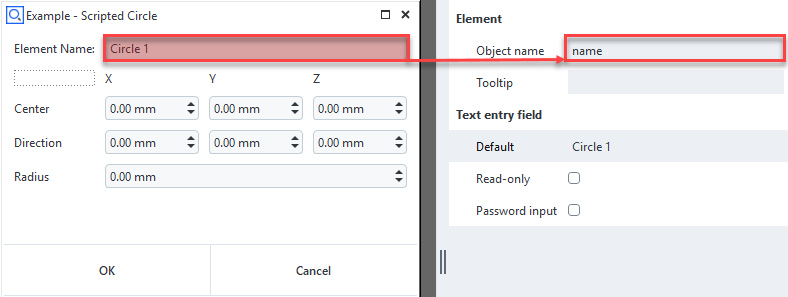
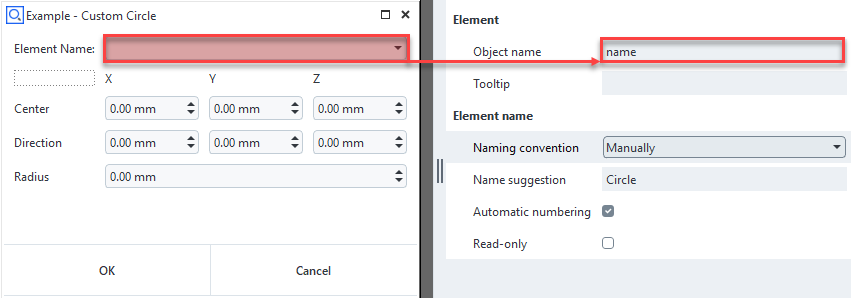
Deploy documentation of '20251201-feat-scripted-elements' to GitHub Pages

diff --git a/20251201-feat-scripted-elements/genindex.html b/20251201-feat-scripted-elements/genindex.html
@@ -244,7 +244,7 @@
   <div class="footer">
     <a href="https://www.gom.com/en/imprint" target="_blank" rel="noopener noreferrer">Imprint</a>
   </div>
-  <jinja2.runtime.BlockReference object at 0x7f224d1e1550>
+  <jinja2.runtime.BlockReference object at 0x7f5c181e0980>
 
 
 </footer>

diff --git a/20251201-feat-scripted-elements/howtos/adding_workspaces_to_apps/adding_workspaces_to_apps.html b/20251201-feat-scripted-elements/howtos/adding_workspaces_to_apps/adding_workspaces_to_apps.html
@@ -440,7 +440,7 @@
   <div class="footer">
     <a href="https://www.gom.com/en/imprint" target="_blank" rel="noopener noreferrer">Imprint</a>
   </div>
-  <jinja2.runtime.BlockReference object at 0x7f224bd69310>
+  <jinja2.runtime.BlockReference object at 0x7f5c16d69310>
 
 
 </footer>

diff --git a/20251201-feat-scripted-elements/howtos/app_documentation/app_documentation.html b/20251201-feat-scripted-elements/howtos/app_documentation/app_documentation.html
@@ -359,7 +359,7 @@ The ZEISS App Development Environment converts Releasenotes from Markdown to PDF
   <div class="footer">
     <a href="https://www.gom.com/en/imprint" target="_blank" rel="noopener noreferrer">Imprint</a>
   </div>
-  <jinja2.runtime.BlockReference object at 0x7f224ceff100>
+  <jinja2.runtime.BlockReference object at 0x7f5c17ef7100>
 
 
 </footer>

diff --git a/20251201-feat-scripted-elements/howtos/app_documentation/assets/Releasenotes.html b/20251201-feat-scripted-elements/howtos/app_documentation/assets/Releasenotes.html
@@ -205,7 +205,7 @@
   <div class="footer">
     <a href="https://www.gom.com/en/imprint" target="_blank" rel="noopener noreferrer">Imprint</a>
   </div>
-  <jinja2.runtime.BlockReference object at 0x7f224bad8dd0>
+  <jinja2.runtime.BlockReference object at 0x7f5c16ad8dd0>
 
 
 </footer>

diff --git a/20251201-feat-scripted-elements/howtos/app_file_format/app_file_format.html b/20251201-feat-scripted-elements/howtos/app_file_format/app_file_format.html
@@ -603,7 +603,7 @@ the menu hierarchy is created from the script’s path within the App’s <code 
   <div class="footer">
     <a href="https://www.gom.com/en/imprint" target="_blank" rel="noopener noreferrer">Imprint</a>
   </div>
-  <jinja2.runtime.BlockReference object at 0x7f224cef4c00>
+  <jinja2.runtime.BlockReference object at 0x7f5c17e84c00>
 
 
 </footer>

diff --git a/20251201-feat-scripted-elements/howtos/custom_elements/custom_checks.html b/20251201-feat-scripted-elements/howtos/custom_elements/custom_checks.html
@@ -280,7 +280,7 @@
   <div class="footer">
     <a href="https://www.gom.com/en/imprint" target="_blank" rel="noopener noreferrer">Imprint</a>
   </div>
-  <jinja2.runtime.BlockReference object at 0x7f224ce85350>
+  <jinja2.runtime.BlockReference object at 0x7f5c17eed350>
 
 
 </footer>

diff --git a/20251201-feat-scripted-elements/howtos/custom_elements/custom_elements_toc.html b/20251201-feat-scripted-elements/howtos/custom_elements/custom_elements_toc.html
@@ -166,7 +166,7 @@
   <div class="footer">
     <a href="https://www.gom.com/en/imprint" target="_blank" rel="noopener noreferrer">Imprint</a>
   </div>
-  <jinja2.runtime.BlockReference object at 0x7f224bd4e210>
+  <jinja2.runtime.BlockReference object at 0x7f5c16d4e210>
 
 
 </footer>

diff --git a/20251201-feat-scripted-elements/howtos/custom_elements/custom_nominals_actuals.html b/20251201-feat-scripted-elements/howtos/custom_elements/custom_nominals_actuals.html
@@ -775,7 +775,7 @@
   <div class="footer">
     <a href="https://www.gom.com/en/imprint" target="_blank" rel="noopener noreferrer">Imprint</a>
   </div>
-  <jinja2.runtime.BlockReference object at 0x7f224bb3f310>
+  <jinja2.runtime.BlockReference object at 0x7f5c16b43310>
 
 
 </footer>

diff --git a/20251201-feat-scripted-elements/howtos/faq/faq.html b/20251201-feat-scripted-elements/howtos/faq/faq.html
@@ -596,7 +596,7 @@ where <code class="docutils literal notranslate"><span class="pre">%APPDATA</spa
   <div class="footer">
     <a href="https://www.gom.com/en/imprint" target="_blank" rel="noopener noreferrer">Imprint</a>
   </div>
-  <jinja2.runtime.BlockReference object at 0x7f224c85b110>
+  <jinja2.runtime.BlockReference object at 0x7f5c17856c90>
 
 
 </footer>

diff --git a/20251201-feat-scripted-elements/howtos/localization/localization.html b/20251201-feat-scripted-elements/howtos/localization/localization.html
@@ -377,7 +377,7 @@
   <div class="footer">
     <a href="https://www.gom.com/en/imprint" target="_blank" rel="noopener noreferrer">Imprint</a>
   </div>
-  <jinja2.runtime.BlockReference object at 0x7f224bd414f0>
+  <jinja2.runtime.BlockReference object at 0x7f5c16d414f0>
 
 
 </footer>

diff --git a/20251201-feat-scripted-elements/howtos/project_keywords/project_keywords.html b/20251201-feat-scripted-elements/howtos/project_keywords/project_keywords.html
@@ -236,7 +236,7 @@
   <div class="footer">
     <a href="https://www.gom.com/en/imprint" target="_blank" rel="noopener noreferrer">Imprint</a>
   </div>
-  <jinja2.runtime.BlockReference object at 0x7f224ba14eb0>
+  <jinja2.runtime.BlockReference object at 0x7f5c16a14eb0>
 
 
 </footer>

diff --git a/20251201-feat-scripted-elements/howtos/python_api_introduction/file_selection_dialog.html b/20251201-feat-scripted-elements/howtos/python_api_introduction/file_selection_dialog.html
@@ -259,7 +259,7 @@
   <div class="footer">
     <a href="https://www.gom.com/en/imprint" target="_blank" rel="noopener noreferrer">Imprint</a>
   </div>
-  <jinja2.runtime.BlockReference object at 0x7f224ba3ce60>
+  <jinja2.runtime.BlockReference object at 0x7f5c16a3ce60>
 
 
 </footer>